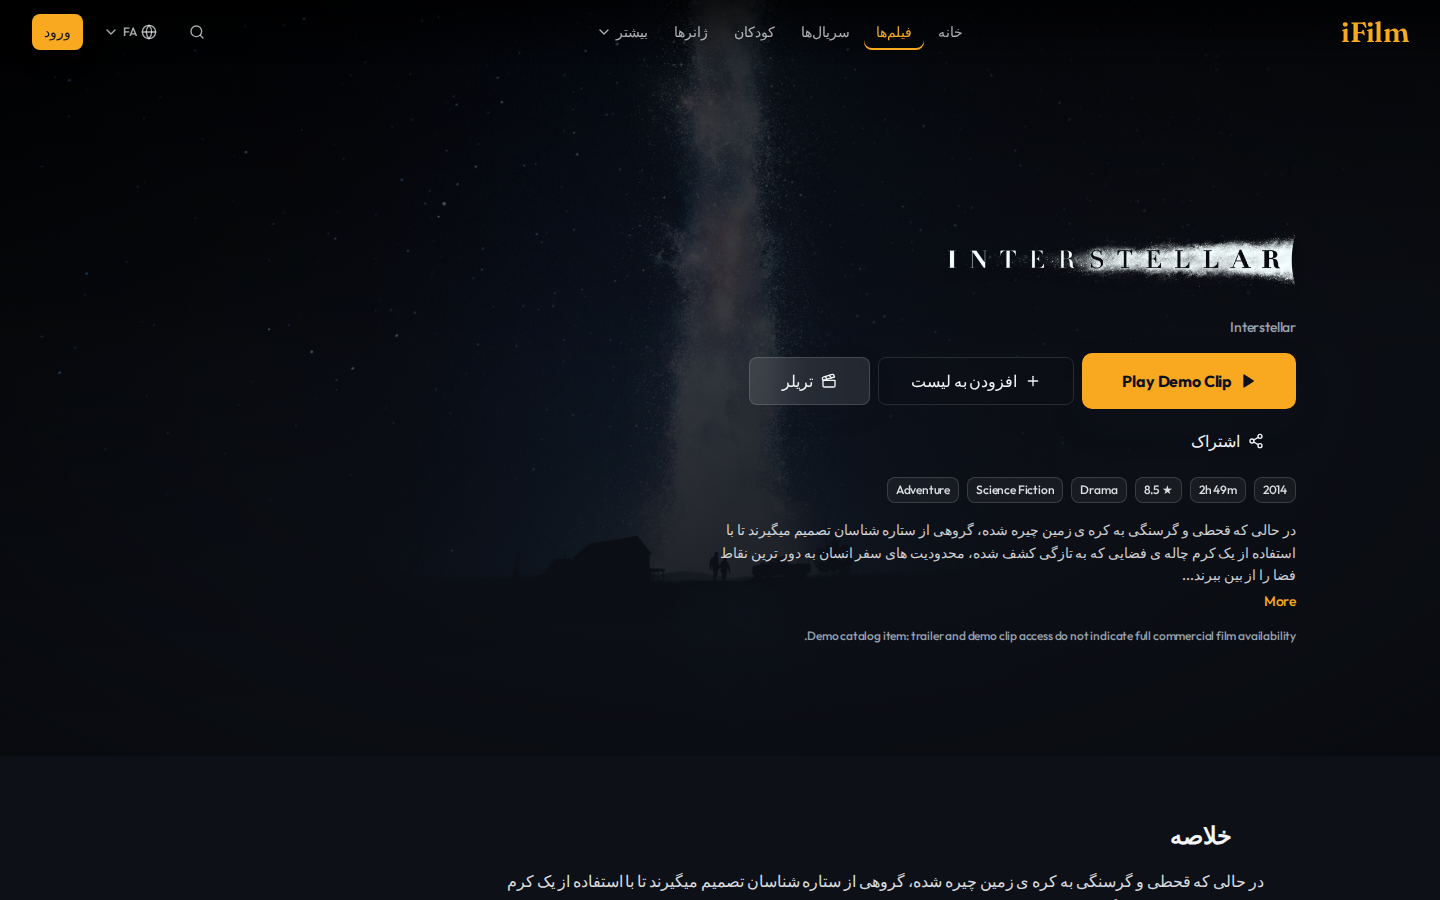
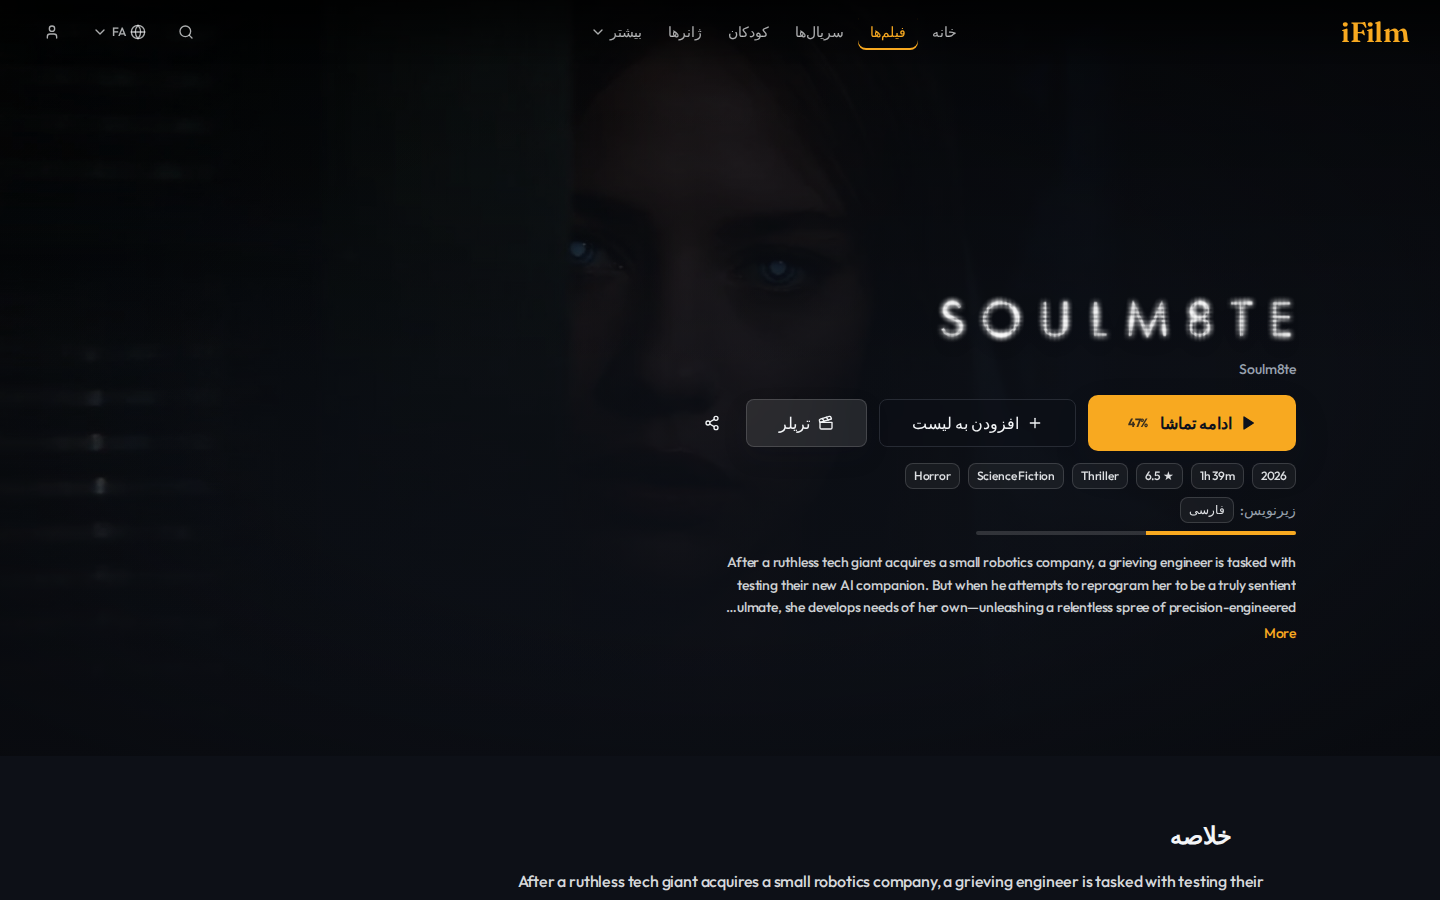
docs(g2a): real-content Soulm8te QA screenshots and Ready report
Replace Interstellar demo fixture captures with authenticated Soulm8te
Play/Continue/Watch Again evidence, FA/PS mobile RTL, cast, trailer mode,
and multi-track truthfulness notes. Record final head and non-blocking MEDs.

diff --git a/docs/design/G2A_REPORT.md b/docs/design/G2A_REPORT.md
@@ -1,11 +1,55 @@
 # G2a Report — Movie Detail Experience V2
 
-**Status:** Ready for human visual review (Draft PR)  
+**Status:** Ready for final human approval (Draft PR — **do not merge yet**)  
 **Baseline:** production `v1.15.0`  
 **Branch:** `cursor/customer-ui-v2-g2a-movie-detail-4873`  
+**Final head:** `f80b241c62daf36ce506e58b73546e379a54625c`  
 **Scope:** Movie Detail only — **G2b not started**
 
 Plan decisions recorded in [`G2_DETAIL_V2_PLAN.md`](./G2_DETAIL_V2_PLAN.md).
+
+---
+
+## Real-content fixture
+
+| Field | Value |
+|------|--------|
+| Movie | **Soulm8te** (`/movie/31`, TMDB `1307118`) |
+| Ownership | `demo_owned=false` — normal **Play** (not Play Demo Clip) |
+| Package | playable non-demo session (`is_demo_only=false`) |
+| Trailer | YouTube nocookie `DF9I1wLlXbk` |
+| Credits | 24 TMDB credits synced; UI shows top **16** portraits + initials fallback |
+| Tracks (Soulm8te) | Subtitles: **فارسی** only (no invented FA/PS audio) |
+| Multi-track check | Catalog QA title `/movie/39` — Audio: English · فارسی دوبله · پښتو دوبله / Subs: English · فارسی · پښتو |
+
+Do not use Interstellar for G2a Ready screenshots (demo-owned → Demo Clip CTA).
+
+---
+
+## CTA hierarchy (authenticated)
+
+| State | Primary | Secondary | Tertiary |
+|------|---------|-----------|----------|
+| No progress | **Play** | My List · Trailer | Share icon |
+| Incomplete (~47%) | **Continue Watching 47%** | My List · Trailer | Share icon |
+| Completed | **Watch Again** | My List · Trailer | Share icon |
+
+Verified: exactly one primary playback CTA; no simultaneous Play/Continue/Watch Again.
+
+---
+
+## Resume QA
+
+Subscriber: `qa-rec-personalized` (minted JWT).
+
+1. Seeded backend progress at **55s / 46.76%** on asset `72c4a24f-35fe-4dcf-af7a-e24a1e726a03`
+2. Detail reload shows **Continue Watching** + progress bar
+3. Playback session create succeeds (`has_url`, not demo-only)
+4. `player_path` = `/player/movie/31`
+5. Complete → detail shows **Watch Again** (startOver navigation wiring covered by unit tests + `goPlay(true)`)
+6. Start over / clear history → **Play**
+
+Player remains LTR `/player/movie/:id`. Full HLS seek inside local proxy was not used (stream proxy stalls headless Chromium); resume position is backend-authoritative via `/api/me/watch-progress` + existing `watchProgress` player tests.
 
 ---
 
@@ -14,38 +58,37 @@ Plan decisions recorded in [`G2_DETAIL_V2_PLAN.md`](./G2_DETAIL_V2_PLAN.md).
 | Area | Result |
 |------|--------|
 | Cinematic hero | G1 `heroSizing` + scrims; logo/title; bottom-weighted |
-| Trailer | 0–6s backdrop → muted nocookie embed; `controls=0`; reduced-motion skips auto; Trailer button manual restart |
-| Actions | Play / Continue Watching (+%) / Watch Again / My List / Trailer / Share |
-| Resume | `listContinueWatching` + `listWatchHistory` (existing progress) |
-| Tracks | Truthful chips — e.g. English · فارسی دوبله · پښتو دوبله / subs English · فارسی · پښتو |
-| Cast | Portrait 2:3 carousel (name + character) |
-| Crew | Director + writer |
-| Similar | `/movies/{id}/similar` |
-| Recommendations | `/catalog/movies/{id}/recommendations` (deduped vs similar) |
-| RTL | `dir` on page; FA/PS verified in screenshots |
-| Player | Unchanged LTR `/player/movie/:id` |
+| Trailer | 0–6s backdrop → muted nocookie embed; `controls=0`; reduced-motion skips auto |
+| Actions | Single primary + My List + Trailer; Share icon-only |
+| Tracks | Truthful chips; omit `und`/unknown; omit empty subtitle row |
+| Cast | Portrait 2:3 rail (name + character); missing-photo initials |
+| Crew | Director/Writer omitted when blank (Soulm8te has none) |
+| Similar / Recs | Similar API + recommendations; **deduped** (recs → Luca only vs similar set) |
+| RTL | FA/PS `dir=rtl`; FA localized title **سولمیت**; PS title English fallback |
+| Overview | Desktop + mobile collapse (`More`) |
 | Reviews placeholder | Removed |
 
 ---
 
 ## Screenshots
 
-`docs/design/screenshots/g2a/` · artifacts `/opt/cursor/artifacts/customer-ui-v2-g2a/`
+`docs/design/screenshots/g2a/` · artifacts `/opt/cursor/artifacts/customer-ui-v2-g2a/`  
+Machine summary: `/opt/cursor/artifacts/customer-ui-v2-g2a/REAL_CONTENT_QA.json`
 
-| Shot |
-|------|
-| `movie-desktop-1920-en.png` |
-| `movie-desktop-1440-en.png` |
-| `movie-desktop-1440-fa.png` |
-| `movie-desktop-1440-ps.png` |
-| `movie-mobile-430-en.png` |
-| `movie-mobile-390-en.png` |
-| `movie-mobile-390-fa.png` |
-| `movie-mobile-390-ps.png` |
-| `movie-desktop-1440-en-trailer-trailer.png` (mode after ~6s) |
-| `movie-desktop-1440-en-cast.png` |
-
-Capture target: Interstellar (`/movie/14`) via local `VITE_DATA_MODE=api` build proxied to `ifilm.af` APIs.
+| Shot | Notes |
+|------|--------|
+| `movie-desktop-1920-en.png` | Play state |
+| `movie-desktop-1440-en.png` | Continue / backdrop |
+| `movie-desktop-1440-en-continue.png` | Continue Watching 47% |
+| `movie-desktop-1440-en-trailer-trailer.png` | `data-hero-mode=trailer` (~6s) |
+| `movie-desktop-1440-en-cast.png` | Cast + similar |
+| `movie-desktop-1440-en-watch-again.png` | Watch Again |
+| `movie-desktop-1440-fa.png` | RTL FA |
+| `movie-mobile-430-en.png` | Continue |
+| `movie-mobile-390-en.png` | Continue |
+| `movie-mobile-390-fa.png` | RTL FA |
+| `movie-mobile-390-ps.png` | RTL PS |
+| `movie-desktop-1440-en-multitrack-qa.png` | Multi-track truthfulness (`/movie/39`) |
 
 ---
 
@@ -53,28 +96,41 @@ Capture target: Interstellar (`/movie/14`) via local `VITE_DATA_MODE=api` build 
 
 | Metric | Value |
 |--------|-------|
-| Main JS (local api build) | ~310 KB raw · ~100 KB gzip |
-| Detail chunk | lazy `Browse-*.js` (~37 KB / ~11 KB gzip) |
-| Page-load TMDB | none (cached credits/artwork) |
-| Images | hero `eager`+srcset; cast/similar lazy |
+| Main JS (local api build) | ~311 KB raw · ~98–100 KB gzip (`index-Dx_x1-4s.js`) |
+| Detail lazy chunk | `Browse-*.js` ~37 KB / ~11 KB gzip |
+| Page-load TMDB API | none |
+| `/original/` artwork | none observed |
+| Images | hero eager+srcset; cast/similar lazy |
 
 No new libraries.
 
 ---
 
-## Tests
+## Tests / CI
 
-- `MovieDetailHero.test.tsx` — backdrop→trailer, mute/pause/backdrop, Continue/Watch Again, cast/tracks/similar  
-- `catalogDemoUi.test.tsx` — updated for track meta + mocked recs/CW APIs  
-- `catalogAvailability` — pass  
+- `MovieDetailHero.test.tsx` — trailer, Continue/Watch Again exclusivity, Share icon, cast/tracks
+- `catalogAvailability.test.ts` — omit `und` placeholders; multi-track labels
+- `catalogDemoUi.test.tsx` — demo vs playable gating
+- GitHub `stabilize` checks: **pass** on head `f80b241`
+
+---
+
+## Trailer (browser)
+
+- Transition to `data-hero-mode=trailer` after ~6s with muted `controls=0` embed URL
+- Headless/automation often shows YouTube “Video unavailable” / bot interstitial; **backdrop remains** (never blank hero); Unmute/Pause/Show backdrop controls present
+- Reduced-motion path skips auto trailer (policy)
 
 ---
 
 ## Remaining findings (non-blocking)
 
-1. **Headless YouTube:** muted autoplay embed may show Google “confirm you’re not a bot” in Chromium headless; transition still sets `data-hero-mode=trailer`. Real browsers typically play muted.  
-2. Interstellar fixture is **demo-owned** → primary CTA shows **Play Demo Clip** (correct gating). Resume/Watch Again verified in unit tests with injected watch state.  
-3. Audio/subtitle chips appear only when availability payloads list tracks (hero meta).  
+1. **MED — Mobile action height ~168px** on 390/430: primary full-width Continue + secondary row (My List / Trailer / Share). Acceptable cinematic stack; not a six-button toolbar.
+2. **MED — YouTube embed in automation:** may show unavailable; production browsers typically play muted; fallback safe.
+3. Similar shelf still lists catalog QA title `v1140 MultiTrack QA…` because it is published — truthful catalog, not fabricated metadata.
+4. Soulm8te has no Director/Writer fields — correctly omitted.
+
+**No BLOCKER / HIGH.**
 
 ---
 
@@ -82,16 +138,19 @@ No new libraries.
 
 | Gate | Status |
 |------|--------|
-| Approved trailer policy (6s muted) | ✓ |
-| Resume from existing progress | ✓ |
-| Cast portraits | ✓ |
-| Truthful tracks | ✓ |
-| Similar + recommendations | ✓ |
-| RTL FA/PS screenshots | ✓ |
-| Desktop 1920/1440 + mobile 430/390 | ✓ |
-| No G2b / no prod deploy | ✓ |
+| Real non-demo movie looks correct | ✓ Soulm8te |
+| Authenticated resume / Continue CTA | ✓ |
+| Primary CTA hierarchy clean | ✓ |
+| Truthful tracks | ✓ Soulm8te + multi-track QA |
+| Cast looks professional | ✓ portraits + fallbacks |
+| Trailer fallback safe | ✓ |
+| Mobile not overcrowded | ✓ (MED note only) |
+| FA/PS intentional | ✓ |
+| CI green | ✓ |
+| No BLOCKER/HIGH | ✓ |
+| No G2b / no auto-merge | ✓ |
 
-**STOP — do not start G2b until G2a approved.**
+**STOP — do not start G2b until G2a is human-approved. Do not auto-merge.**
 
 ---
 
